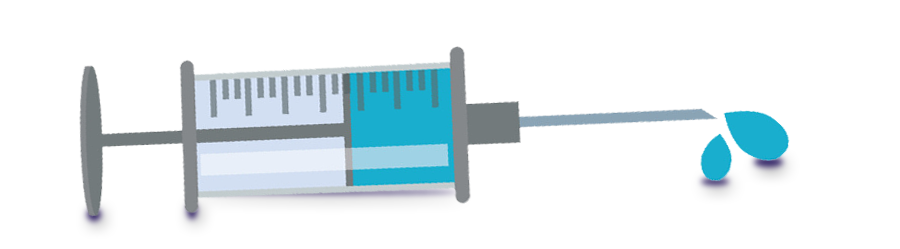
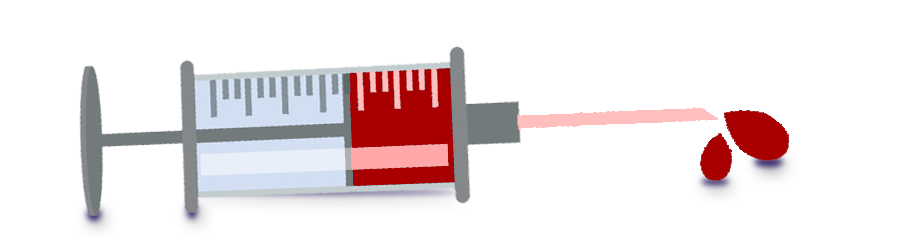
Agregada la vida y cambiado el color de la jeringa a rojo

Changed region(s): [[0.3733, 0.253, 0.5289, 0.759], [0.56, 0.4217, 0.9022, 0.7309]]

diff --git a/Assets/Scripts/Pause.cs b/Assets/Scripts/Pause.cs
@@ -1,0 +1,40 @@
+using System.Collections;
+using System.Collections.Generic;
+using UnityEngine;
+
+public class Pause : MonoBehaviour
+{
+    //[SerializeField] private GameObject pausePanel;
+    void Start()
+    {
+        //pausePanel.SetActive(false);
+    }
+    /*
+    void Update()
+    {
+        if (Input.GetKeyDown(KeyCode.Escape))
+        {
+            if (!pausePanel.activeInHierarchy)
+            {
+                PauseGame();
+            }
+            if (pausePanel.activeInHierarchy)
+            {
+                ContinueGame();
+            }
+        }
+    }
+    */
+    public void PauseGame()
+    {
+        Time.timeScale = 0;
+        //pausePanel.SetActive(true);
+        //Disable scripts that still work while timescale is set to 0
+    }
+    public void ContinueGame()
+    {
+        Time.timeScale = 1;
+        //pausePanel.SetActive(false);
+        //enable the scripts again
+    }
+}

diff --git a/Assets/Scripts/GenerarBasura.cs b/Assets/Scripts/GenerarBasura.cs
@@ -1,19 +1,23 @@
 using System.Collections;
 using System.Collections.Generic;
 using UnityEngine;
+using UnityEngine.UI;
 
 public class GenerarBasura : MonoBehaviour
 {
+
+    public static MondyPlazaPaz mondy;
     public GameObject[] residuo;
     public float spawnTime = 1.0f;
     private Vector2 screenbounds;
     int i;
     public const float bottom_threshold = 2f;
-    public const float top_threshold = 1f;
-    
+    public const float top_threshold = 1f;    
     // Start is called before the first frame update
     void Start()
     {
+        
+        mondy = new MondyPlazaPaz(5, GameObject.Find("Vida").GetComponent<Text>());
         screenbounds = Camera.main.ScreenToWorldPoint(new Vector3(Screen.width, Screen.height, Camera.main.transform.position.z));
         StartCoroutine(OleadaBasura());
     }

diff --git a/Assets/Scripts/Mondy/Mondy.cs b/Assets/Scripts/Mondy/Mondy.cs
@@ -1,0 +1,33 @@
+using System.Collections;
+using System.Collections.Generic;
+using UnityEngine;
+using UnityEngine.UI;
+
+public class Mondy
+{
+
+    public int vida;
+    public long puntaje = 0;
+    public int tiempo;
+    public Text vida_text; 
+
+    public Mondy(int vida, Text vida_text){
+        this.vida = vida;
+        this.vida_text = vida_text;
+    }
+    
+    public void perderVida()
+    {
+       
+        vida -= 1;
+        vida_text.text = "Vida x " + vida;
+        
+        if (vida <= 0)
+        {
+            Debug.Log("Juego terminado");
+            GameObject.Find("Panel").GetComponent<Pause>().PauseGame();
+        }
+
+    }
+    
+}

diff --git a/Assets/Scripts/Caneca/Caneca.cs b/Assets/Scripts/Caneca/Caneca.cs
@@ -6,13 +6,13 @@ public class Caneca : MonoBehaviour
 {
     // Start is called before the first frame update
 
+    
     private ObjectoController desecho = null;
     public string type = "ordinario"; 
 
 
     void Start()
     {
-
     }
 
     // Update is called once per frame
@@ -44,7 +44,9 @@ public class Caneca : MonoBehaviour
             }
             else
             {
-                Debug.Log("Incorrecto."); 
+                Debug.Log("Incorrecto.");
+                GenerarBasura.mondy.perderVida();
+                
             }
             Destroy(desecho.gameObject);
             desecho = null;

diff --git a/Assets/Scripts/Mondy/MondyPlazaPaz.cs b/Assets/Scripts/Mondy/MondyPlazaPaz.cs
@@ -1,0 +1,16 @@
+using System.Collections;
+using System.Collections.Generic;
+using UnityEngine;
+using UnityEngine.UI;
+
+public class MondyPlazaPaz : Mondy
+{
+
+    public Dictionary<string, int> Desechos_depositados;
+    
+    public MondyPlazaPaz(int vida, Text vida_text) : base(vida, vida_text)
+    {
+        Desechos_depositados = new Dictionary<string, int>();
+    }
+
+}

diff --git a/Assets/Scripts/ObjectoController.cs b/Assets/Scripts/ObjectoController.cs
@@ -6,7 +6,6 @@ using UnityEngine;
 public class ObjectoController : MonoBehaviour
 {
 
-
     private float startPosX;
     private float startPosY;
     public string type;

diff --git a/Assets/Scripts/Objectos/Ordinarios/Ordinarios.cs b/Assets/Scripts/Objectos/Ordinarios/Ordinarios.cs
@@ -4,6 +4,7 @@ using UnityEngine;
 
 public class Ordinarios : ObjectoController
 {
+    
     protected void Awake()
     {
         type = "ordinario";
